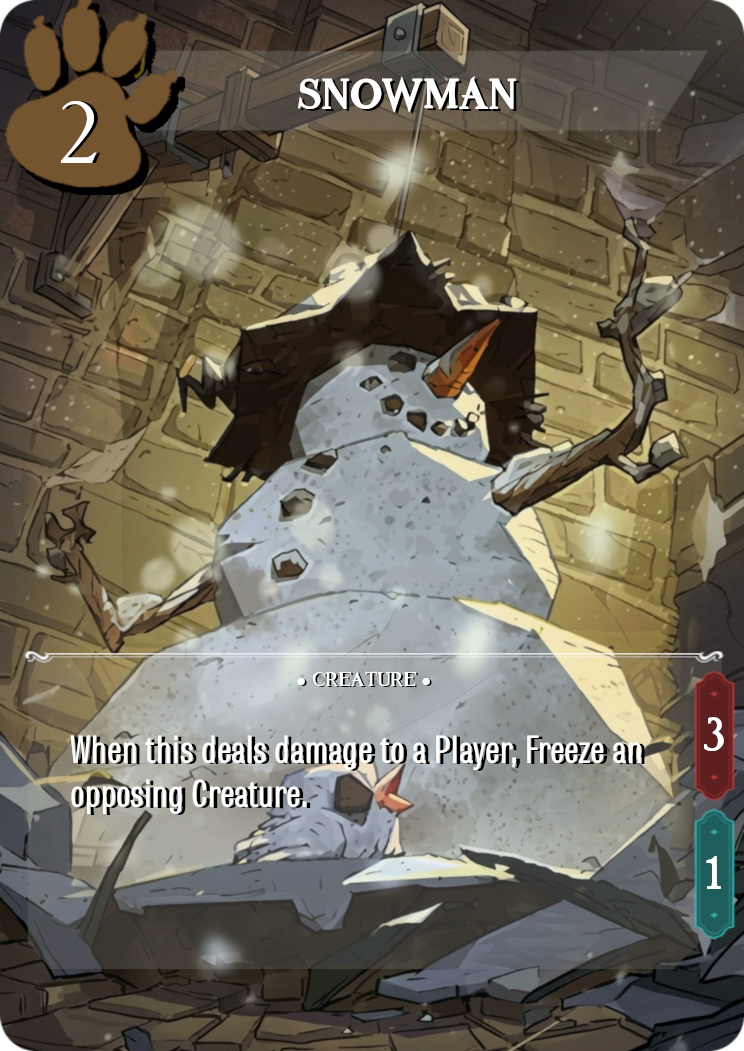
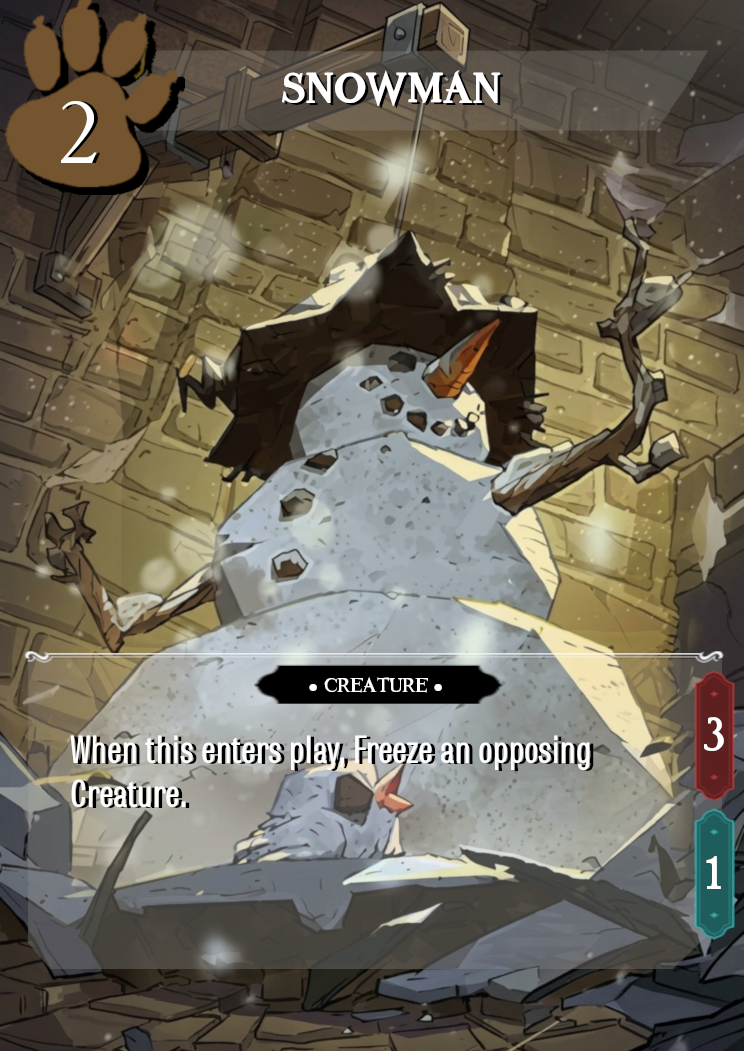
Snowman Hotfix

diff --git a/index.html b/index.html
@@ -675,7 +675,7 @@
  #zoom .zimage{max-height:75dvh!important;max-width:88vw!important;object-fit:contain}
 }
 </style>
-</head><body><div id="mobileHandMenu"><button onclick="mobileHandAction('play')">Play</button><button onclick="mobileHandAction('reveal')">Reveal</button><button onclick="mobileHandAction('shuffle')">Shuffle into Deck</button><button onclick="mobileHandAction('discard')">Discard</button></div><div id="startingAllyMobileOverlay" role="dialog" aria-modal="true" aria-label="Starting Ally card" onclick="closeStartingAllyMobile(event)"><div class="allyPopup"><img id="startingAllyMobileImage" alt="Starting Ally full card"><button type="button" onclick="closeStartingAllyMobile(event)">Close</button></div></div><div id="sideboardModal" style="display:none;position:fixed;inset:0;z-index:30000;background:rgba(5,10,24,.94);overflow:auto;padding:24px;color:#f2e6cb"><div style="max-width:960px;margin:auto;background:#14243a;border:2px solid #a98a54;border-radius:14px;padding:22px"><h2 id="sideboardTitle">Sideboard</h2><p id="sideboardHelp">Swap up to five cards. Choose a card from each column to exchange.</p><div style="display:grid;grid-template-columns:1fr 1fr;gap:18px"><section><h3>Main Deck <span id="sideMainCount"></span></h3><div id="sideMainCards" style="max-height:55vh;overflow:auto"></div></section><section><h3>Sideboard <span id="sideReserveCount"></span></h3><div id="sideReserveCards" style="max-height:55vh;overflow:auto"></div></section></div><p id="sideboardStatus"></p><button id="sideboardConfirm" onclick="confirmSideboard()" style="padding:12px 24px;background:#ac8d54;color:#101827;font-weight:bold">Confirm Sideboard</button></div></div><audio id="gameplayBackgroundMusic" src="backgrounds/back_music.mp3" preload="none" loop playsinline></audio><div id="home" class="home"><img class="landingSnitch" src="backgrounds/snitch.gif" alt="" aria-hidden="true" onerror="this.style.display='none'"><div class="homeBox"><h1 class="homeTitle"><img src="backgrounds/hpmini_title.png" alt="Pocket TCG Simulator" onerror="this.style.display='none';this.parentNode.appendChild(document.createTextNode('Pocket TCG Simulator'))"></h1><div class="homeActions"><button class="homeBtn" onclick="showPlay()">▶ Play</button><button class="homeBtn" onclick="showBuilder()">▦ Deck Builder</button><button class="homeBtn" onclick="showDatabase()">▤ Database</button><button class="homeBtn" onclick="showRules()">📖 Rules</button></div></div><div class="landingVersion">Pocket Magic Awakened · v1.146</div></div><div id="rules" class="rulesScreen screenHidden" aria-label="Game rules">
+</head><body><div id="mobileHandMenu"><button onclick="mobileHandAction('play')">Play</button><button onclick="mobileHandAction('reveal')">Reveal</button><button onclick="mobileHandAction('shuffle')">Shuffle into Deck</button><button onclick="mobileHandAction('discard')">Discard</button></div><div id="startingAllyMobileOverlay" role="dialog" aria-modal="true" aria-label="Starting Ally card" onclick="closeStartingAllyMobile(event)"><div class="allyPopup"><img id="startingAllyMobileImage" alt="Starting Ally full card"><button type="button" onclick="closeStartingAllyMobile(event)">Close</button></div></div><div id="sideboardModal" style="display:none;position:fixed;inset:0;z-index:30000;background:rgba(5,10,24,.94);overflow:auto;padding:24px;color:#f2e6cb"><div style="max-width:960px;margin:auto;background:#14243a;border:2px solid #a98a54;border-radius:14px;padding:22px"><h2 id="sideboardTitle">Sideboard</h2><p id="sideboardHelp">Swap up to five cards. Choose a card from each column to exchange.</p><div style="display:grid;grid-template-columns:1fr 1fr;gap:18px"><section><h3>Main Deck <span id="sideMainCount"></span></h3><div id="sideMainCards" style="max-height:55vh;overflow:auto"></div></section><section><h3>Sideboard <span id="sideReserveCount"></span></h3><div id="sideReserveCards" style="max-height:55vh;overflow:auto"></div></section></div><p id="sideboardStatus"></p><button id="sideboardConfirm" onclick="confirmSideboard()" style="padding:12px 24px;background:#ac8d54;color:#101827;font-weight:bold">Confirm Sideboard</button></div></div><audio id="gameplayBackgroundMusic" src="backgrounds/back_music.mp3" preload="none" loop playsinline></audio><div id="home" class="home"><img class="landingSnitch" src="backgrounds/snitch.gif" alt="" aria-hidden="true" onerror="this.style.display='none'"><div class="homeBox"><h1 class="homeTitle"><img src="backgrounds/hpmini_title.png" alt="Pocket TCG Simulator" onerror="this.style.display='none';this.parentNode.appendChild(document.createTextNode('Pocket TCG Simulator'))"></h1><div class="homeActions"><button class="homeBtn" onclick="showPlay()">▶ Play</button><button class="homeBtn" onclick="showBuilder()">▦ Deck Builder</button><button class="homeBtn" onclick="showDatabase()">▤ Database</button><button class="homeBtn" onclick="showRules()">📖 Rules</button></div></div><div class="landingVersion">Pocket Magic Awakened · v1.147</div></div><div id="rules" class="rulesScreen screenHidden" aria-label="Game rules">
 <div class="rulesBar"><h2>📖 Official Game Guide</h2><span style="flex:1"></span><button onclick="showHome()">← Back to Menu</button></div>
 <div class="rulesLayout"><nav class="rulesNav" aria-label="Rulebook sections">
 <a href="#rules-overview">Overview</a><a href="#rules-decks">Deck Building</a><a href="#rules-setup">Setup & Mulligan</a><a href="#rules-turn">Turn Structure</a><a href="#rules-actions">Actions & Lessons</a><a href="#rules-cards">Card Types</a><a href="#rules-spells">Spell Chains</a><a href="#rules-creatures">Creatures & Damage</a><a href="#rules-keywords">Keywords</a><a href="#rules-tokens">Tokens</a><a href="#rules-online">Online & Local Play</a><a href="#rules-reference">Quick Reference</a>
@@ -706,7 +706,7 @@
 <div class="modal" id="deckCodeModal" style="z-index:1100;width:min(620px,94vw)"><div style="display:flex;justify-content:space-between;align-items:center;gap:8px"><h2 id="deckCodeTitle" style="margin:0">Deck Code</h2><button onclick="closeDeckCodeModal()">Close</button></div><p id="deckCodeHelp"></p><textarea id="deckCodeInput" spellcheck="false" style="width:100%;height:135px;resize:vertical;background:#0e1116;color:#eee;border:1px solid #48515e;border-radius:7px;padding:10px;font:12px monospace;margin:8px 0"></textarea><div style="display:flex;justify-content:flex-end;gap:8px"><button id="deckCodeCopy" onclick="copyDeckCode()">Copy Code</button><button id="deckCodeImport" onclick="importDeckCode()">Import Deck</button></div></div><div id="lookRevealOverlay" class="lookRevealOverlay" style="display:none"><div class="lookRevealPanel"><div class="lookRevealHeader"><b id="lookRevealTitle">Opponent reveals cards</b><button onclick="closeLookReveal()">Close</button></div><div id="lookRevealCards" class="lookRevealCards"></div></div></div><div class="deckModal" id="deckModal"><div class="deckBox"><div class="deckHead"><b id="deckTitle">Deck</b><button onclick="closeDeckViewer()">Close</button></div><div class="deckControls" id="deckControls"></div><div class="deckCards" id="deckCards"></div></div></div><script src="https://cdn.jsdelivr.net/npm/@supabase/supabase-js@2/dist/umd/supabase.js"></script><script>
 let id=1,phase='setup',turn=1,sel=null,selDeck=null,viewPlayer=1;const P={1:newP(),2:newP()};function newP(){return{main:[],lessonDeck:[],hand:[],handRevealed:false,lessons:[],play:[],discard:[],lessonDiscard:[],exile:[],mull:[],char:null,life:20,actionsLeft:2,lessonsPlayed:0,dobbyUsed:false,combatStep:"combat"}}
 let history=[];function snapshot(){return JSON.parse(JSON.stringify({P,phase,turn}));}function pushHistory(){if(phase!=='game')return;history.push(snapshot());if(history.length>50)history.shift();}function undoMove(){if(lobbyMode==='invite'&&onlineStarted){requestOnlineUndo();return}if(phase!=='game'||!history.length){toast('Nothing to undo.');return}let h=history.pop();Object.keys(P).forEach(k=>P[k]=h.P[k]);phase=h.phase;turn=h.turn;sel=null;selDeck=null;render();document.getElementById('status').textContent='Player '+turn+' Turn';toast('Last action undone.')}
-const CARD_DB={"Draco Malfoy":{"type":"Ally","domain":"Neutral","cost":0,"effect":"Once per turn, spend an action to discard a card. If you do, look at your opponent's hand and discard a card.","image":"cards/allies/char_draco.png"},"Harry Potter":{"type":"Ally","domain":"Neutral","cost":0,"effect":"Once per turn, when you play your second card, draw 1 card.","image":"cards/allies/char_harry.png"},"Ron Weasley":{"type":"Ally","domain":"Neutral","cost":0,"effect":"When you play an Ally, it costs 1 Action instead of 2.","image":"cards/allies/char_ron.png"},"Hermione Granger":{"type":"Ally","domain":"Neutral","cost":0,"effect":"Once per turn, when you play your second spell, draw 1 Lesson.","image":"cards/allies/char_hermione.png"},"Luna Lovegood":{"type":"Ally","domain":"Neutral","cost":0,"effect":"Once per turn, if you control 6 or more Lessons, you may discard 2 Lessons to create a Thestral Token.","image":"cards/allies/char_luna.png"},"Neville Longbottom":{"type":"Ally","domain":"Neutral","cost":0,"effect":"Once per turn, when you play a Creature, you may restore 2 Health to a Creature or Player.","image":"cards/allies/char_neville.png"},"Dobby":{"type":"Ally","domain":"Neutral","cost":0,"effect":"Once per turn, you may discard 1 Lesson to destroy a Spell targeting you.","image":"cards/allies/char_dobby.png"},"Aquamenti":{"type":"Spell","domain":"Charms","cost":2,"effect":"Deal 2 damage to a Creature or player.","image":"cards/charms/charm_aguamenti.png"},"Flipendo":{"type":"Quick Spell","domain":"Charms","cost":2,"effect":"Return a Creature with a Cost of 3 or less to its owner's hand.","image":"cards/charms/charm_flipendo.png"},"Stupefy":{"type":"Spell","domain":"Charms","cost":2,"effect":"Deal 2 damage to a Creature or Player. If your opponent controls exactly one Creature, deal 2 additional damage to that Creature or the player.","image":"cards/charms/charm_stupefy.png"},"Episkey":{"type":"Spell","domain":"Charms","cost":2,"effect":"Restore 4 Health to a Creature or Player.","image":"cards/charms/charm_episkey.png"},"Expelliarmus":{"type":"Spell","domain":"Charms","cost":3,"effect":"Deal 2 damage to a Player. Additional Cost — Discard 1 Lesson: Destroy an Ongoing Spell or an Item.","image":"cards/charms/charm_expelliarmus.png"},"Priori Incantatem":{"type":"Spell","domain":"Charms","cost":3,"effect":"Discard a card from your hand. Return a Spell from your discard pile to your hand.","image":"cards/charms/charm_priori.png"},"Protego":{"type":"Quick Spell","domain":"Charms","cost":3,"effect":"Shield 5 to a target.","image":"cards/charms/charm_protego.png"},"Atmospheric Charm":{"type":"Spell","domain":"Charms","cost":5,"effect":"Each Player shuffles their hand into their deck, then draws 4 cards.","image":"cards/charms/charm_atmospheric.png"},"Incendio":{"type":"Spell","domain":"Charms","cost":5,"effect":"Deal 4 damage to a target and 1 damage to each other valid target in play.","image":"cards/charms/charm_incendio.png"},"Reducto":{"type":"Spell","domain":"Charms","cost":6,"effect":"Deal 1 damage to your opponent, plus 1 additional damage for each damage they have taken.","image":"cards/charms/charm_reducto.png"},"Wildfire Whiz Bangs":{"type":"Spell","domain":"Charms","cost":7,"effect":"Deal 7 damage to a Creature or Player.","image":"cards/charms/charm_whizbangs.png"},"Apparate":{"type":"Quick Spell","domain":"Transfiguration","cost":1,"effect":"Choose one: Destroy a Location; or destroy a Spell targeting you.","image":"cards/transfiguration/transf_apparate.png"},"Avis":{"type":"Spell","domain":"Transfiguration","cost":2,"effect":"Additional Cost — Discard 1 Transfiguration Lesson: Create 2 Bird Tokens.","image":"cards/transfiguration/transf_avis.png"},"Confundus":{"type":"Quick Spell","domain":"Transfiguration","cost":2,"effect":"Choose one: Look at your opponent's hand; or return a Spell your opponent is playing to their hand.","image":"cards/transfiguration/transf_confundus.png"},"Incarcerous":{"type":"Spell","domain":"Transfiguration","cost":2,"effect":"The next Spell you play this turn that targets an opponent's card affects all valid targets controlled by that opponent instead of one.","image":"cards/transfiguration/transf_incarcerous.png"},"Bat Bogey Hex":{"type":"Quick Spell","domain":"Transfiguration","cost":3,"effect":"Destroy a Spell with a Cost of 4 or less. If you do, draw a card.","image":"cards/transfiguration/transf_batbogeyhex.png"},"Glacius":{"type":"Ongoing Spell","domain":"Transfiguration","cost":2,"effect":"Countdown 1: Freeze a target.","image":"cards/transfiguration/transf_glacius.png"},"Glacius Maxima":{"type":"Ongoing Spell","domain":"Transfiguration","cost":4,"effect":"Countdown 2: Freeze up to 3 targets.","image":"cards/transfiguration/transf_glaciusmaxima.png"},"Oppugno":{"type":"Ongoing Spell","domain":"Transfiguration","cost":3,"effect":"Countdown 1: Deal 1 damage to a Player, plus 1 additional damage for every 2 Creatures you control.","image":"cards/transfiguration/transf_oppugno.png"},"Petrificus Totalus":{"type":"Quick Spell","domain":"Transfiguration","cost":3,"effect":"Choose one: Destroy an ally; or freeze a creature.","image":"cards/transfiguration/transf_petrificus.png"},"Carpe Retractum":{"type":"Spell","domain":"Transfiguration","cost":3,"effect":"Additional Cost — Discard a Lesson. Return up to 2 Items you control to your hand; if you paid the additional cost, return 2 Items your opponent controls instead.","image":"cards/transfiguration/transf_carperetractum.png"},"Piertotum Locomotor":{"type":"Spell","domain":"Transfiguration","cost":6,"effect":"Create 2 Stone Guardian Tokens.","image":"cards/transfiguration/transf_piertotum.png"},"Pawn":{"type":"Creature","domain":"Neutral","cost":2,"health":1,"damage":1,"effect":"When this is destroyed: draw 1 card.","image":"cards/creatures/creature_pawn.png"},"Bowtruckle":{"type":"Creature","domain":"Neutral","cost":2,"health":2,"damage":1,"effect":"When this enters play: look at the top 3 cards of your deck. You may reveal an Item among them and put it into your hand. Put the rest on the bottom.","image":"cards/creatures/creature_bowtruckle.png"},"Mooncalf":{"type":"Creature","domain":"Neutral","cost":2,"health":2,"damage":1,"effect":"The first time you play a Lesson each turn: Mooncalf gets +1 Damage until end of turn.","image":"cards/creatures/creature_mooncalf.png"},"Niffler":{"type":"Creature","domain":"Neutral","cost":2,"health":2,"damage":0,"effect":"Niffler counts as a Lesson while in play.","image":"cards/creatures/creature_niffler.png"},"Pixies":{"type":"Creature","domain":"Neutral","cost":2,"health":1,"damage":2,"effect":"When this enters play: if you control another Creature, draw 1 card.","image":"cards/creatures/creature_pixies.png"},"Snowman":{"type":"Creature","domain":"Neutral","cost":2,"health":3,"damage":1,"effect":"When this deals damage to a Player, Freeze an opposing Creature.","image":"cards/creatures/creature_snowman.png"},"Firecrab":{"type":"Creature","domain":"Neutral","cost":3,"health":4,"damage":2,"effect":"Block (You must deal damage to me first).","image":"cards/creatures/creature_firecrab.png"},"Monster Book":{"type":"Creature","domain":"Neutral","cost":3,"health":3,"damage":2,"effect":"When this enters play: return a Spell with Cost 3 or less from your discard pile to your hand.","image":"cards/creatures/creature_mosterbook.png"},"Transfiguration Lesson":{"type":"Lesson","cost":0,"domain":"Transfiguration","image":"cards/lessons/lesson_transfiguration.png"},"Charm Lesson":{"type":"Lesson","cost":0,"domain":"Charms","image":"cards/lessons/lesson_charm.png"},"Quidditch Lesson":{"type":"Lesson","cost":0,"domain":"Quidditch","image":"cards/lessons/lesson_quidditch.png"},"Potions & Items Lesson":{"type":"Lesson","cost":0,"domain":"Potions","image":"cards/lessons/lesson_potions.png"},"Dark Arts Lesson":{"type":"Lesson","cost":0,"domain":"Dark Arts","image":"cards/lessons/lesson_dark.png"},"Flying Broom":{"type":"Item","domain":"Quidditch","cost":2,"effect":"When this enters play, choose one: Draw 1 card or Discard a card to Draw a lesson.","image":"cards/quidditch/quidd_broom.png"},"Golden Snitch":{"type":"Item","domain":"Quidditch","cost":2,"effect":"When this enters play or is returned to its owner's hand, you may draw 1 card.","image":"cards/quidditch/quidd_snitch.png"},"Golden Snidget":{"type":"Creature","domain":"Quidditch","cost":2,"life":2,"damage":2,"effect":"Whenever this deals damage to a Player, draw a card.","image":"cards/quidditch/quidd_snidget.png"},"Bludger":{"type":"Item","domain":"Quidditch","cost":3,"effect":"When this enters play or is returned to its owner's hand, deal 2 damage to a target.","image":"cards/quidditch/quidd_bludger.png"},"Quidditch Kit":{"type":"Item","domain":"Quidditch","cost":3,"effect":"The first time you play a Quidditch card each turn, look at the top 2 cards of your deck. Put one into your hand and the other on the bottom.","image":"cards/quidditch/quidd_kit.png"},"Winged Catapult":{"type":"Creature","domain":"Quidditch","cost":3,"life":3,"damage":2,"effect":"Whenever this deals damage to a Player, look at the top card of your deck. You may put it on the bottom.","image":"cards/quidditch/quidd_winged.png"},"Beater":{"type":"Ally","domain":"Quidditch","cost":"-","effect":"Once per turn, you may discard a card: Return a Quidditch Item to its owner's hand.","image":"cards/quidditch/quidd_beater.png"},"Seeker":{"type":"Ally","domain":"Quidditch","cost":"-","effect":"Once per turn, search your deck for a Golden Snitch or Quidditch Item, reveal it, put it into your hand, then shuffle.","image":"cards/quidditch/quidd_seeker.png"},"Guardian":{"type":"Ally","domain":"Quidditch","cost":"-","effect":"When any of the Quidditch Items you control are about to be destroyed, discard me instead to prevent it.","image":"cards/quidditch/quidd_guardian.png"},"Memory Vial":{"type":"Item","domain":"Potions","cost":3,"effect":"Once per turn, you may discard a card from your hand to play a Lesson.","image":"cards/potions/potinos_memoryvial.png"},"Weasley Fireworks":{"type":"Item","domain":"Potions","cost":2,"effect":"Once per turn, deal 1 damage to a Creature.","image":"cards/potions/potinos_wealeyfireworks.png"},"Stone Guardian":{"type":"Creature","domain":"Neutral","cost":0,"health":4,"life":4,"damage":1,"effect":"Block (You must deal damage to me first).","image":"cards/tokens/token_stoneguardian.png","token":true},"Luna's Thestral":{"type":"Creature","domain":"Neutral","cost":0,"health":3,"life":3,"damage":3,"effect":"Sacrifice this and discard 2 Lessons: Deal 2 damage to a target, plus 1 additional damage for each Spell in your discard pile.","image":"cards/tokens/token_thestrals.png","token":true},"Magical Birds":{"type":"Creature","domain":"Neutral","cost":0,"health":1,"life":1,"damage":1,"effect":"","image":"cards/tokens/token_magicalbirds.png","token":true},"Diffindo":{"type":"Spell","domain":"Transfiguration","cost":5,"effect":"Deal 3 damage to a target. Then, deal 3 damage to each Frozen target.","image":"cards/transfiguration/transf_diffindo.png"},"Yeti":{"type":"Creature","domain":"Neutral","cost":5,"health":5,"damage":3,"effect":"Countdown 2: Freeze up to 3 targets.","image":"cards/creatures/creature_yeti.png"},"Orb of Water":{"type":"Ongoing Spell","domain":"Transfiguration","cost":6,"effect":"Countdown 1: Freeze up to 3 targets and deal 1 damage to each of them. When this card is discarded, deal 3 damage to the same targets.","image":"cards/transfiguration/transf_orb.png"},"Accio":{"type":"Spell","domain":"Charms","cost":3,"effect":"Return a Lesson from your discard pile to play.","image":"cards/charms/charm_accio.png"},"Wingardium Leviosa":{"type":"Spell","domain":"Charms","cost":3,"effect":"Additional Cost — Discard 1 Lesson: You may return an Item you control to your hand. If you paid the additional cost, return an Item from your discard pile to your hand.","image":"cards/charms/charm_wingardium.png"},"Nebulus":{"type":"Ongoing Spell","domain":"Charms","cost":4,"effect":"Countdown 2: Your opponent cannot target you with cards they control.","image":"cards/charms/charm_nebulus.png"},"Protego Totalum":{"type":"Spell","domain":"Charms","cost":6,"effect":"Shield 5 to you and each Creature you control.","image":"cards/charms/charm_protego_t.png"},"Slug Vomiting Charm":{"type":"Ongoing Spell","domain":"Charms","cost":2,"effect":"Countdown 2: Freeze your opponent's Starting Ally. Then, your opponent discards a card.","image":"cards/charms/charm_slugs.png"},"Expecto Patronus":{"type":"Spell","domain":"Transfiguration","cost":4,"effect":"Destroy a Creature with a Cost of 5 or less then draw 1. If it was a Dementor, draw 2.","image":"cards/transfiguration/transf_patronus.png"},"Time Turner":{"type":"Item","domain":"Potions","cost":6,"effect":"Once per turn, you may discard 3 cards from your hand to take 1 additional Action.","image":"cards/potions/potions_time.png"},"Portkey":{"type":"Item","domain":"Potions","cost":3,"effect":"Once per turn, you may shuffle a card from your hand to draw 1.","image":"cards/potions/potions_portkey.png"},"Chomping Cabbage":{"type":"Creature","domain":"Potions","cost":3,"health":3,"damage":2,"effect":"The first time you play a Potion each turn, Chomping Cabbage gets 1 additional damage.","image":"cards/potions/potinos_cabbage.png"},"Weasley Bomb Box":{"type":"Item","domain":"Potions","cost":4,"effect":"All Creatures you control deal 1 additional damage.","image":"cards/potions/potinos_weasleybombs.png"},"Swelling Solution":{"type":"Potion","domain":"Potions","cost":2,"effect":"Countdown 2: Your Creatures and Basic Casts deal 1 additional damage.","image":"cards/potions/potinos_swelling.png"},"Felix Felicis":{"type":"Potion","domain":"Potions","cost":5,"effect":"Countdown 1: Look at the top 3 cards of your deck. You may choose a Spell and play it for no cost.","image":"cards/potions/potinos_felix.png"},"Arrow Shooting Spell":{"type":"Ongoing Spell","domain":"Transfiguration","cost":3,"effect":"Countdown 1: Choose one: Deal 2 damage to a Player; or destroy a Creature with a Cost of 3 or less.","image":"cards/transfiguration/transf_arrow.png"},"Riddikulus":{"type":"Ongoing Spell","domain":"Charms","cost":3,"effect":"Freeze an Ally as long as this Spell is in play.","image":"cards/charms/charm_riddikulus.png"},"Obscurus":{"type":"Dark Spell","domain":"Dark Arts","cost":5,"effect":"Additional Cost — Discard your hand: Draw 3 cards. Deal 1 damage to your opponent for each card discarded this way, up to 5 damage.","image":"cards/dark/dark_obscurus.png"},"Sectumsempra":{"type":"Dark Spell","domain":"Dark Arts","cost":4,"effect":"Deal 3 damage to a target. If that target has already been dealt damage this turn, deal 3 additional damage to it. Your opponent cannot restore health next turn.","image":"cards/dark/dark_sectumsempra.png"},"Death Eater":{"type":"Ally","domain":"Dark Arts","cost":5,"effect":"Once per turn, look at the top 3 cards of your deck. If you find a Dark Spell, you may play it for 2 fewer Lessons. Shuffle the remaining cards.","image":"cards/dark/dark_deatheater.png"},"Imperio":{"type":"Dark Spell","domain":"Dark Arts","cost":6,"effect":"Additional Cost: Discard 1 Lesson: Choose a Creature or Ally. You gain control of it for as long as Imperio remains in play.","image":"cards/dark/dark_imperio.png"},"Vanishing Cabinet":{"type":"Item","domain":"Dark Arts","cost":3,"effect":"When this enters play or is discarded, draw 1 card.","image":"cards/dark/dark_cabinet.png"},"Enchanted Candy":{"type":"Item","domain":"Potions","cost":2,"effect":"The first Spell you play each turn deals 2 additional damage.","image":"cards/potions/potinos_candy.png"},"Impedimenta":{"type":"Ongoing Spell","domain":"Charms","cost":3,"effect":"Countdown 1: Your opponent has 1 fewer Action during their next turn.","image":"cards/charms/charm_impedimenta.png"},"Homorphus":{"type":"Spell","domain":"Transfiguration","cost":4,"effect":"Replace a Creature or Ally with a Wild Boar Token.","image":"cards/transfiguration/transf_homorphus.png"},"Wild Boar":{"type":"Creature","domain":"Neutral","cost":0,"health":1,"life":1,"damage":1,"effect":"","image":"cards/tokens/token_wildboar.png","token":true},"Horrocrux":{"type":"Item","domain":"Dark Arts","cost":6,"effect":"Additional Cost — Sacrifice a Creature or Ally you control. Your opponent cannot win the game while your Health is 0 or less as long as this Item remains in play. Your opponent must destroy this Item to win the game.","image":"cards/dark/dark_horrocrux.png"},"Finite Incantatem":{"type":"Ongoing Spell","domain":"Charms","cost":4,"effect":"Countdown 1: Destroy all Ongoing Spells and Dark Spells your opponent controls. Your opponent must discard a card to play a Lesson.","image":"cards/charms/charm_finite.png"},"Legillimens":{"type":"Spell","domain":"Transfiguration","cost":3,"effect":"Look at your opponent's hand. If there is any Spell, your opponent must discard a Lesson.","image":"cards/transfiguration/transf_legillimens.png"},"Scamander Suitcase":{"type":"Item","domain":"Potions","cost":4,"effect":"Once per turn, when you look at the cards of your deck, you may reveal and put all the Creatures you see into your hand.","image":"cards/potions/potinos_suitcase.png"},"Watching the Game":{"type":"Event","domain":"Quidditch","cost":4,"effect":"Your opponent shuffles their hand into their deck. Then your opponent draws 3.","image":"cards/quidditch/quidd_wtg.png"},"Fire Bolt":{"type":"Item","domain":"Quidditch","cost":4,"effect":"When damage would be dealt to you or a Quidditch Creature you control, discard me to prevent that damage. When this card is discarded, draw 1.","image":"cards/quidditch/quidd_firebolt.png"},"Crucio":{"type":"Dark Spell","domain":"Dark Arts","cost":5,"effect":"Choose a target. It cannot attack. At the beginning of each of your turns, deal 3 damage to it. This effect lasts as long as Crucio remains in play.","image":"cards/dark/dark_crucio.png"},"Hot Air Charm":{"type":"Spell","domain":"Charms","cost":2,"effect":"Remove all freeze status from all the cards in your board. Draw 1.","image":"cards/charms/charm_hot.png"},"Crystal Ball":{"type":"Item","domain":"Potions","cost":2,"effect":"Once per turn, when a card leaves your discard pile, draw 1 card and deal 1 damage to any target.","image":"cards/potions/potinos_crystalball.png"},"Duel of the Seekers":{"type":"Event","domain":"Quidditch","cost":4,"effect":"Draw 1 card. If you control a Golden Snitch, deal 3 damage to your opponent.","image":"cards/quidditch/quidd_duelofseeker.png"},"Gubridian Fire":{"type":"Ongoing Spell","domain":"Transfiguration","cost":5,"effect":"Countdown 2: Deal 2 damage to all creatures.","image":"cards/transfiguration/transf_gubridian.png"}};const BACKS={main:'cards/backs/main_back.png',lesson:'cards/backs/lesson_back.png'};const cards=Object.entries(CARD_DB).filter(([n,d])=>d.type!=='Lesson'&&!d.token).map(([n,d])=>[n,d.type,d.cost]);
+const CARD_DB={"Draco Malfoy":{"type":"Ally","domain":"Neutral","cost":0,"effect":"Once per turn, spend an action to discard a card. If you do, look at your opponent's hand and discard a card.","image":"cards/allies/char_draco.png"},"Harry Potter":{"type":"Ally","domain":"Neutral","cost":0,"effect":"Once per turn, when you play your second card, draw 1 card.","image":"cards/allies/char_harry.png"},"Ron Weasley":{"type":"Ally","domain":"Neutral","cost":0,"effect":"When you play an Ally, it costs 1 Action instead of 2.","image":"cards/allies/char_ron.png"},"Hermione Granger":{"type":"Ally","domain":"Neutral","cost":0,"effect":"Once per turn, when you play your second spell, draw 1 Lesson.","image":"cards/allies/char_hermione.png"},"Luna Lovegood":{"type":"Ally","domain":"Neutral","cost":0,"effect":"Once per turn, if you control 6 or more Lessons, you may discard 2 Lessons to create a Thestral Token.","image":"cards/allies/char_luna.png"},"Neville Longbottom":{"type":"Ally","domain":"Neutral","cost":0,"effect":"Once per turn, when you play a Creature, you may restore 2 Health to a Creature or Player.","image":"cards/allies/char_neville.png"},"Dobby":{"type":"Ally","domain":"Neutral","cost":0,"effect":"Once per turn, you may discard 1 Lesson to destroy a Spell targeting you.","image":"cards/allies/char_dobby.png"},"Aquamenti":{"type":"Spell","domain":"Charms","cost":2,"effect":"Deal 2 damage to a Creature or player.","image":"cards/charms/charm_aguamenti.png"},"Flipendo":{"type":"Quick Spell","domain":"Charms","cost":2,"effect":"Return a Creature with a Cost of 3 or less to its owner's hand.","image":"cards/charms/charm_flipendo.png"},"Stupefy":{"type":"Spell","domain":"Charms","cost":2,"effect":"Deal 2 damage to a Creature or Player. If your opponent controls exactly one Creature, deal 2 additional damage to that Creature or the player.","image":"cards/charms/charm_stupefy.png"},"Episkey":{"type":"Spell","domain":"Charms","cost":2,"effect":"Restore 4 Health to a Creature or Player.","image":"cards/charms/charm_episkey.png"},"Expelliarmus":{"type":"Spell","domain":"Charms","cost":3,"effect":"Deal 2 damage to a Player. Additional Cost — Discard 1 Lesson: Destroy an Ongoing Spell or an Item.","image":"cards/charms/charm_expelliarmus.png"},"Priori Incantatem":{"type":"Spell","domain":"Charms","cost":3,"effect":"Discard a card from your hand. Return a Spell from your discard pile to your hand.","image":"cards/charms/charm_priori.png"},"Protego":{"type":"Quick Spell","domain":"Charms","cost":3,"effect":"Shield 5 to a target.","image":"cards/charms/charm_protego.png"},"Atmospheric Charm":{"type":"Spell","domain":"Charms","cost":5,"effect":"Each Player shuffles their hand into their deck, then draws 4 cards.","image":"cards/charms/charm_atmospheric.png"},"Incendio":{"type":"Spell","domain":"Charms","cost":5,"effect":"Deal 4 damage to a target and 1 damage to each other valid target in play.","image":"cards/charms/charm_incendio.png"},"Reducto":{"type":"Spell","domain":"Charms","cost":6,"effect":"Deal 1 damage to your opponent, plus 1 additional damage for each damage they have taken.","image":"cards/charms/charm_reducto.png"},"Wildfire Whiz Bangs":{"type":"Spell","domain":"Charms","cost":7,"effect":"Deal 7 damage to a Creature or Player.","image":"cards/charms/charm_whizbangs.png"},"Apparate":{"type":"Quick Spell","domain":"Transfiguration","cost":1,"effect":"Choose one: Destroy a Location; or destroy a Spell targeting you.","image":"cards/transfiguration/transf_apparate.png"},"Avis":{"type":"Spell","domain":"Transfiguration","cost":2,"effect":"Additional Cost — Discard 1 Transfiguration Lesson: Create 2 Bird Tokens.","image":"cards/transfiguration/transf_avis.png"},"Confundus":{"type":"Quick Spell","domain":"Transfiguration","cost":2,"effect":"Choose one: Look at your opponent's hand; or return a Spell your opponent is playing to their hand.","image":"cards/transfiguration/transf_confundus.png"},"Incarcerous":{"type":"Spell","domain":"Transfiguration","cost":2,"effect":"The next Spell you play this turn that targets an opponent's card affects all valid targets controlled by that opponent instead of one.","image":"cards/transfiguration/transf_incarcerous.png"},"Bat Bogey Hex":{"type":"Quick Spell","domain":"Transfiguration","cost":3,"effect":"Destroy a Spell with a Cost of 4 or less. If you do, draw a card.","image":"cards/transfiguration/transf_batbogeyhex.png"},"Glacius":{"type":"Ongoing Spell","domain":"Transfiguration","cost":2,"effect":"Countdown 1: Freeze a target.","image":"cards/transfiguration/transf_glacius.png"},"Glacius Maxima":{"type":"Ongoing Spell","domain":"Transfiguration","cost":4,"effect":"Countdown 2: Freeze up to 3 targets.","image":"cards/transfiguration/transf_glaciusmaxima.png"},"Oppugno":{"type":"Ongoing Spell","domain":"Transfiguration","cost":3,"effect":"Countdown 1: Deal 1 damage to a Player, plus 1 additional damage for every 2 Creatures you control.","image":"cards/transfiguration/transf_oppugno.png"},"Petrificus Totalus":{"type":"Quick Spell","domain":"Transfiguration","cost":3,"effect":"Choose one: Destroy an ally; or freeze a creature.","image":"cards/transfiguration/transf_petrificus.png"},"Carpe Retractum":{"type":"Spell","domain":"Transfiguration","cost":3,"effect":"Additional Cost — Discard a Lesson. Return up to 2 Items you control to your hand; if you paid the additional cost, return 2 Items your opponent controls instead.","image":"cards/transfiguration/transf_carperetractum.png"},"Piertotum Locomotor":{"type":"Spell","domain":"Transfiguration","cost":6,"effect":"Create 2 Stone Guardian Tokens.","image":"cards/transfiguration/transf_piertotum.png"},"Pawn":{"type":"Creature","domain":"Neutral","cost":2,"health":1,"damage":1,"effect":"When this is destroyed: draw 1 card.","image":"cards/creatures/creature_pawn.png"},"Bowtruckle":{"type":"Creature","domain":"Neutral","cost":2,"health":2,"damage":1,"effect":"When this enters play: look at the top 3 cards of your deck. You may reveal an Item among them and put it into your hand. Put the rest on the bottom.","image":"cards/creatures/creature_bowtruckle.png"},"Mooncalf":{"type":"Creature","domain":"Neutral","cost":2,"health":2,"damage":1,"effect":"The first time you play a Lesson each turn: Mooncalf gets +1 Damage until end of turn.","image":"cards/creatures/creature_mooncalf.png"},"Niffler":{"type":"Creature","domain":"Neutral","cost":2,"health":2,"damage":0,"effect":"Niffler counts as a Lesson while in play.","image":"cards/creatures/creature_niffler.png"},"Pixies":{"type":"Creature","domain":"Neutral","cost":2,"health":1,"damage":2,"effect":"When this enters play: if you control another Creature, draw 1 card.","image":"cards/creatures/creature_pixies.png"},"Snowman":{"type":"Creature","domain":"Neutral","cost":2,"health":3,"damage":1,"effect":"When this enters play, Freeze an opposing Creature.","image":"cards/creatures/creature_snowman.png"},"Firecrab":{"type":"Creature","domain":"Neutral","cost":3,"health":4,"damage":2,"effect":"Block (You must deal damage to me first).","image":"cards/creatures/creature_firecrab.png"},"Monster Book":{"type":"Creature","domain":"Neutral","cost":3,"health":3,"damage":2,"effect":"When this enters play: return a Spell with Cost 3 or less from your discard pile to your hand.","image":"cards/creatures/creature_mosterbook.png"},"Transfiguration Lesson":{"type":"Lesson","cost":0,"domain":"Transfiguration","image":"cards/lessons/lesson_transfiguration.png"},"Charm Lesson":{"type":"Lesson","cost":0,"domain":"Charms","image":"cards/lessons/lesson_charm.png"},"Quidditch Lesson":{"type":"Lesson","cost":0,"domain":"Quidditch","image":"cards/lessons/lesson_quidditch.png"},"Potions & Items Lesson":{"type":"Lesson","cost":0,"domain":"Potions","image":"cards/lessons/lesson_potions.png"},"Dark Arts Lesson":{"type":"Lesson","cost":0,"domain":"Dark Arts","image":"cards/lessons/lesson_dark.png"},"Flying Broom":{"type":"Item","domain":"Quidditch","cost":2,"effect":"When this enters play, choose one: Draw 1 card or Discard a card to Draw a lesson.","image":"cards/quidditch/quidd_broom.png"},"Golden Snitch":{"type":"Item","domain":"Quidditch","cost":2,"effect":"When this enters play or is returned to its owner's hand, you may draw 1 card.","image":"cards/quidditch/quidd_snitch.png"},"Golden Snidget":{"type":"Creature","domain":"Quidditch","cost":2,"life":2,"damage":2,"effect":"Whenever this deals damage to a Player, draw a card.","image":"cards/quidditch/quidd_snidget.png"},"Bludger":{"type":"Item","domain":"Quidditch","cost":3,"effect":"When this enters play or is returned to its owner's hand, deal 2 damage to a target.","image":"cards/quidditch/quidd_bludger.png"},"Quidditch Kit":{"type":"Item","domain":"Quidditch","cost":3,"effect":"The first time you play a Quidditch card each turn, look at the top 2 cards of your deck. Put one into your hand and the other on the bottom.","image":"cards/quidditch/quidd_kit.png"},"Winged Catapult":{"type":"Creature","domain":"Quidditch","cost":3,"life":3,"damage":2,"effect":"Whenever this deals damage to a Player, look at the top card of your deck. You may put it on the bottom.","image":"cards/quidditch/quidd_winged.png"},"Beater":{"type":"Ally","domain":"Quidditch","cost":"-","effect":"Once per turn, you may discard a card: Return a Quidditch Item to its owner's hand.","image":"cards/quidditch/quidd_beater.png"},"Seeker":{"type":"Ally","domain":"Quidditch","cost":"-","effect":"Once per turn, search your deck for a Golden Snitch or Quidditch Item, reveal it, put it into your hand, then shuffle.","image":"cards/quidditch/quidd_seeker.png"},"Guardian":{"type":"Ally","domain":"Quidditch","cost":"-","effect":"When any of the Quidditch Items you control are about to be destroyed, discard me instead to prevent it.","image":"cards/quidditch/quidd_guardian.png"},"Memory Vial":{"type":"Item","domain":"Potions","cost":3,"effect":"Once per turn, you may discard a card from your hand to play a Lesson.","image":"cards/potions/potinos_memoryvial.png"},"Weasley Fireworks":{"type":"Item","domain":"Potions","cost":2,"effect":"Once per turn, deal 1 damage to a Creature.","image":"cards/potions/potinos_wealeyfireworks.png"},"Stone Guardian":{"type":"Creature","domain":"Neutral","cost":0,"health":4,"life":4,"damage":1,"effect":"Block (You must deal damage to me first).","image":"cards/tokens/token_stoneguardian.png","token":true},"Luna's Thestral":{"type":"Creature","domain":"Neutral","cost":0,"health":3,"life":3,"damage":3,"effect":"Sacrifice this and discard 2 Lessons: Deal 2 damage to a target, plus 1 additional damage for each Spell in your discard pile.","image":"cards/tokens/token_thestrals.png","token":true},"Magical Birds":{"type":"Creature","domain":"Neutral","cost":0,"health":1,"life":1,"damage":1,"effect":"","image":"cards/tokens/token_magicalbirds.png","token":true},"Diffindo":{"type":"Spell","domain":"Transfiguration","cost":5,"effect":"Deal 3 damage to a target. Then, deal 3 damage to each Frozen target.","image":"cards/transfiguration/transf_diffindo.png"},"Yeti":{"type":"Creature","domain":"Neutral","cost":5,"health":5,"damage":3,"effect":"Countdown 2: Freeze up to 3 targets.","image":"cards/creatures/creature_yeti.png"},"Orb of Water":{"type":"Ongoing Spell","domain":"Transfiguration","cost":6,"effect":"Countdown 1: Freeze up to 3 targets and deal 1 damage to each of them. When this card is discarded, deal 3 damage to the same targets.","image":"cards/transfiguration/transf_orb.png"},"Accio":{"type":"Spell","domain":"Charms","cost":3,"effect":"Return a Lesson from your discard pile to play.","image":"cards/charms/charm_accio.png"},"Wingardium Leviosa":{"type":"Spell","domain":"Charms","cost":3,"effect":"Additional Cost — Discard 1 Lesson: You may return an Item you control to your hand. If you paid the additional cost, return an Item from your discard pile to your hand.","image":"cards/charms/charm_wingardium.png"},"Nebulus":{"type":"Ongoing Spell","domain":"Charms","cost":4,"effect":"Countdown 2: Your opponent cannot target you with cards they control.","image":"cards/charms/charm_nebulus.png"},"Protego Totalum":{"type":"Spell","domain":"Charms","cost":6,"effect":"Shield 5 to you and each Creature you control.","image":"cards/charms/charm_protego_t.png"},"Slug Vomiting Charm":{"type":"Ongoing Spell","domain":"Charms","cost":2,"effect":"Countdown 2: Freeze your opponent's Starting Ally. Then, your opponent discards a card.","image":"cards/charms/charm_slugs.png"},"Expecto Patronus":{"type":"Spell","domain":"Transfiguration","cost":4,"effect":"Destroy a Creature with a Cost of 5 or less then draw 1. If it was a Dementor, draw 2.","image":"cards/transfiguration/transf_patronus.png"},"Time Turner":{"type":"Item","domain":"Potions","cost":6,"effect":"Once per turn, you may discard 3 cards from your hand to take 1 additional Action.","image":"cards/potions/potions_time.png"},"Portkey":{"type":"Item","domain":"Potions","cost":3,"effect":"Once per turn, you may shuffle a card from your hand to draw 1.","image":"cards/potions/potions_portkey.png"},"Chomping Cabbage":{"type":"Creature","domain":"Potions","cost":3,"health":3,"damage":2,"effect":"The first time you play a Potion each turn, Chomping Cabbage gets 1 additional damage.","image":"cards/potions/potinos_cabbage.png"},"Weasley Bomb Box":{"type":"Item","domain":"Potions","cost":4,"effect":"All Creatures you control deal 1 additional damage.","image":"cards/potions/potinos_weasleybombs.png"},"Swelling Solution":{"type":"Potion","domain":"Potions","cost":2,"effect":"Countdown 2: Your Creatures and Basic Casts deal 1 additional damage.","image":"cards/potions/potinos_swelling.png"},"Felix Felicis":{"type":"Potion","domain":"Potions","cost":5,"effect":"Countdown 1: Look at the top 3 cards of your deck. You may choose a Spell and play it for no cost.","image":"cards/potions/potinos_felix.png"},"Arrow Shooting Spell":{"type":"Ongoing Spell","domain":"Transfiguration","cost":3,"effect":"Countdown 1: Choose one: Deal 2 damage to a Player; or destroy a Creature with a Cost of 3 or less.","image":"cards/transfiguration/transf_arrow.png"},"Riddikulus":{"type":"Ongoing Spell","domain":"Charms","cost":3,"effect":"Freeze an Ally as long as this Spell is in play.","image":"cards/charms/charm_riddikulus.png"},"Obscurus":{"type":"Dark Spell","domain":"Dark Arts","cost":5,"effect":"Additional Cost — Discard your hand: Draw 3 cards. Deal 1 damage to your opponent for each card discarded this way, up to 5 damage.","image":"cards/dark/dark_obscurus.png"},"Sectumsempra":{"type":"Dark Spell","domain":"Dark Arts","cost":4,"effect":"Deal 3 damage to a target. If that target has already been dealt damage this turn, deal 3 additional damage to it. Your opponent cannot restore health next turn.","image":"cards/dark/dark_sectumsempra.png"},"Death Eater":{"type":"Ally","domain":"Dark Arts","cost":5,"effect":"Once per turn, look at the top 3 cards of your deck. If you find a Dark Spell, you may play it for 2 fewer Lessons. Shuffle the remaining cards.","image":"cards/dark/dark_deatheater.png"},"Imperio":{"type":"Dark Spell","domain":"Dark Arts","cost":6,"effect":"Additional Cost: Discard 1 Lesson: Choose a Creature or Ally. You gain control of it for as long as Imperio remains in play.","image":"cards/dark/dark_imperio.png"},"Vanishing Cabinet":{"type":"Item","domain":"Dark Arts","cost":3,"effect":"When this enters play or is discarded, draw 1 card.","image":"cards/dark/dark_cabinet.png"},"Enchanted Candy":{"type":"Item","domain":"Potions","cost":2,"effect":"The first Spell you play each turn deals 2 additional damage.","image":"cards/potions/potinos_candy.png"},"Impedimenta":{"type":"Ongoing Spell","domain":"Charms","cost":3,"effect":"Countdown 1: Your opponent has 1 fewer Action during their next turn.","image":"cards/charms/charm_impedimenta.png"},"Homorphus":{"type":"Spell","domain":"Transfiguration","cost":4,"effect":"Replace a Creature or Ally with a Wild Boar Token.","image":"cards/transfiguration/transf_homorphus.png"},"Wild Boar":{"type":"Creature","domain":"Neutral","cost":0,"health":1,"life":1,"damage":1,"effect":"","image":"cards/tokens/token_wildboar.png","token":true},"Horrocrux":{"type":"Item","domain":"Dark Arts","cost":6,"effect":"Additional Cost — Sacrifice a Creature or Ally you control. Your opponent cannot win the game while your Health is 0 or less as long as this Item remains in play. Your opponent must destroy this Item to win the game.","image":"cards/dark/dark_horrocrux.png"},"Finite Incantatem":{"type":"Ongoing Spell","domain":"Charms","cost":4,"effect":"Countdown 1: Destroy all Ongoing Spells and Dark Spells your opponent controls. Your opponent must discard a card to play a Lesson.","image":"cards/charms/charm_finite.png"},"Legillimens":{"type":"Spell","domain":"Transfiguration","cost":3,"effect":"Look at your opponent's hand. If there is any Spell, your opponent must discard a Lesson.","image":"cards/transfiguration/transf_legillimens.png"},"Scamander Suitcase":{"type":"Item","domain":"Potions","cost":4,"effect":"Once per turn, when you look at the cards of your deck, you may reveal and put all the Creatures you see into your hand.","image":"cards/potions/potinos_suitcase.png"},"Watching the Game":{"type":"Event","domain":"Quidditch","cost":4,"effect":"Your opponent shuffles their hand into their deck. Then your opponent draws 3.","image":"cards/quidditch/quidd_wtg.png"},"Fire Bolt":{"type":"Item","domain":"Quidditch","cost":4,"effect":"When damage would be dealt to you or a Quidditch Creature you control, discard me to prevent that damage. When this card is discarded, draw 1.","image":"cards/quidditch/quidd_firebolt.png"},"Crucio":{"type":"Dark Spell","domain":"Dark Arts","cost":5,"effect":"Choose a target. It cannot attack. At the beginning of each of your turns, deal 3 damage to it. This effect lasts as long as Crucio remains in play.","image":"cards/dark/dark_crucio.png"},"Hot Air Charm":{"type":"Spell","domain":"Charms","cost":2,"effect":"Remove all freeze status from all the cards in your board. Draw 1.","image":"cards/charms/charm_hot.png"},"Crystal Ball":{"type":"Item","domain":"Potions","cost":2,"effect":"Once per turn, when a card leaves your discard pile, draw 1 card and deal 1 damage to any target.","image":"cards/potions/potinos_crystalball.png"},"Duel of the Seekers":{"type":"Event","domain":"Quidditch","cost":4,"effect":"Draw 1 card. If you control a Golden Snitch, deal 3 damage to your opponent.","image":"cards/quidditch/quidd_duelofseeker.png"},"Gubridian Fire":{"type":"Ongoing Spell","domain":"Transfiguration","cost":5,"effect":"Countdown 2: Deal 2 damage to all creatures.","image":"cards/transfiguration/transf_gubridian.png"}};const BACKS={main:'cards/backs/main_back.png',lesson:'cards/backs/lesson_back.png'};const cards=Object.entries(CARD_DB).filter(([n,d])=>d.type!=='Lesson'&&!d.token).map(([n,d])=>[n,d.type,d.cost]);
 function C(n,t,c,img=null){return{id:id++,name:n,type:t,cost:c,counter:0,life:t==='Creature'?null:null,image:img,face:1,tapped:false,frozen:false,shield:false,rot:0,x:10,y:10}}function sh(a){for(let i=a.length-1;i>0;i--){let j=Math.random()*(i+1)|0;[a[i],a[j]]=[a[j],a[i]]}return a}function cardFromDB(name,extra={}){let d=CARD_DB[name];if(!d)throw new Error('Card not found in database: '+name);const card=C(name,d.type,d.cost,extra.image||d.image||null);if(d.type==='Creature'){card.life=Number(d.health??d.life??1);card.damage=Number(d.damage??0);}return card}function buildCards(list){return list.flatMap(entry=>{if(typeof entry==='string')return[cardFromDB(entry)];let n=entry.name,count=entry.count||1;return Array.from({length:count},()=>cardFromDB(n,entry))})}function draw(p,n=1){let count=0;while(n--&&P[p].main.length){P[p].hand.push(P[p].main.pop());count++;}if(count&&phase!=='setup')playGameplaySfx('card')}function toast(t){let x=document.getElementById('toast');x.textContent=t;x.classList.add('show');setTimeout(()=>x.classList.remove('show'),1300)}
 let loadedDecks={1:null,2:null};
 
